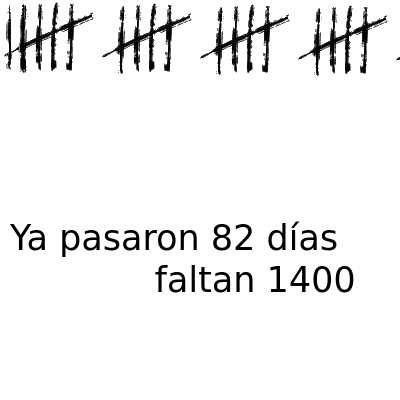
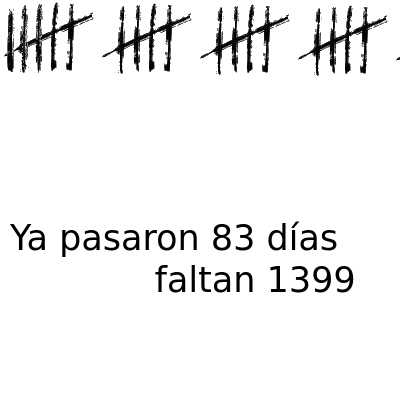
deploy: 28882f26f23b9f53dac6c4991168e610486d0e44

Changed region(s): [[0.0, 0.0, 0.12, 0.18], [0.72, 0.66, 0.9, 0.75], [0.57, 0.57, 0.63, 0.63]]

diff --git a/index.html b/index.html
@@ -3,19 +3,19 @@
   <head>
     <meta charset='utf-8'>
     <meta http-equiv='X-UA-Compatible' content='IE=edge'>
-    <title>Ya pasaron 82 días y faltan 1400</title>
-    <meta name="description" content="Ya pasaron 82 días y faltan 1400">
-    <meta itemprop="name" content="Ya pasaron 82 días y faltan 1400">
-    <meta itemprop="description" content="Ya pasaron 82 días y faltan 1400">
+    <title>Ya pasaron 83 días y faltan 1399</title>
+    <meta name="description" content="Ya pasaron 83 días y faltan 1399">
+    <meta itemprop="name" content="Ya pasaron 83 días y faltan 1399">
+    <meta itemprop="description" content="Ya pasaron 83 días y faltan 1399">
     <meta name="twitter:card" content="summary">
-    <meta name="twitter:title" content="Ya pasaron 82 días y faltan 1400">
-    <meta name="twitter:description" content="Ya pasaron 82 días y faltan 1400">
+    <meta name="twitter:title" content="Ya pasaron 83 días y faltan 1399">
+    <meta name="twitter:description" content="Ya pasaron 83 días y faltan 1399">
     <meta name="twitter:creator" content="@FloriusWasTaken">
     <meta name="twitter:image" content="https://pasaron.meme.ar/capture.png">
-    <meta property="og:title" content="Ya pasaron 82 días y faltan 1400">
-    <meta property="og:description" content="Ya pasaron 82 días y faltan 1400">
+    <meta property="og:title" content="Ya pasaron 83 días y faltan 1399">
+    <meta property="og:description" content="Ya pasaron 83 días y faltan 1399">
     <meta property="og:url" content="https://pasaron.meme.ar">
-    <meta property="og:site_name" content="Ya pasaron 82 días y faltan 1400">
+    <meta property="og:site_name" content="Ya pasaron 83 días y faltan 1399">
     <meta property="og:type" content="website">
     <meta property="og:image" content="https://pasaron.meme.ar/capture.png">
     <meta name="theme-color" content="#dc143c">
@@ -69,18 +69,18 @@
         padding: 0;
       }
     </style>
-    <title>Ya pasaron 82 días y faltan 1400</title>
+    <title>Ya pasaron 83 días y faltan 1399</title>
   </head>
   <body>
     <div id="main">
       <img src="img/5.png"/><img src="img/5.png"/><img src="img/5.png"/><img src="img/5.png"/><img src="img/5.png"/><img src="img/5.png"/><img src="img/5.png"/><img src="img/5.png"/><img src="img/5.png"/><img src="img/5.png"/><img src="img/5.png"/><img src="img/5.png"/><img src="img/5.png"/><img src="img/5.png"/><img src="img/5.png"/><img src="img/5.png"/>
       
-        <img src="img/2.png"/>
+        <img src="img/3.png"/>
       
     </div>
     <footer id="footer">
       <marquee id="marquee" class="is-vertical-align">
-        Ya pasaron 82 días y faltan 1400
+        Ya pasaron 83 días y faltan 1399
       </marquee>
       <ul>
         <li>
